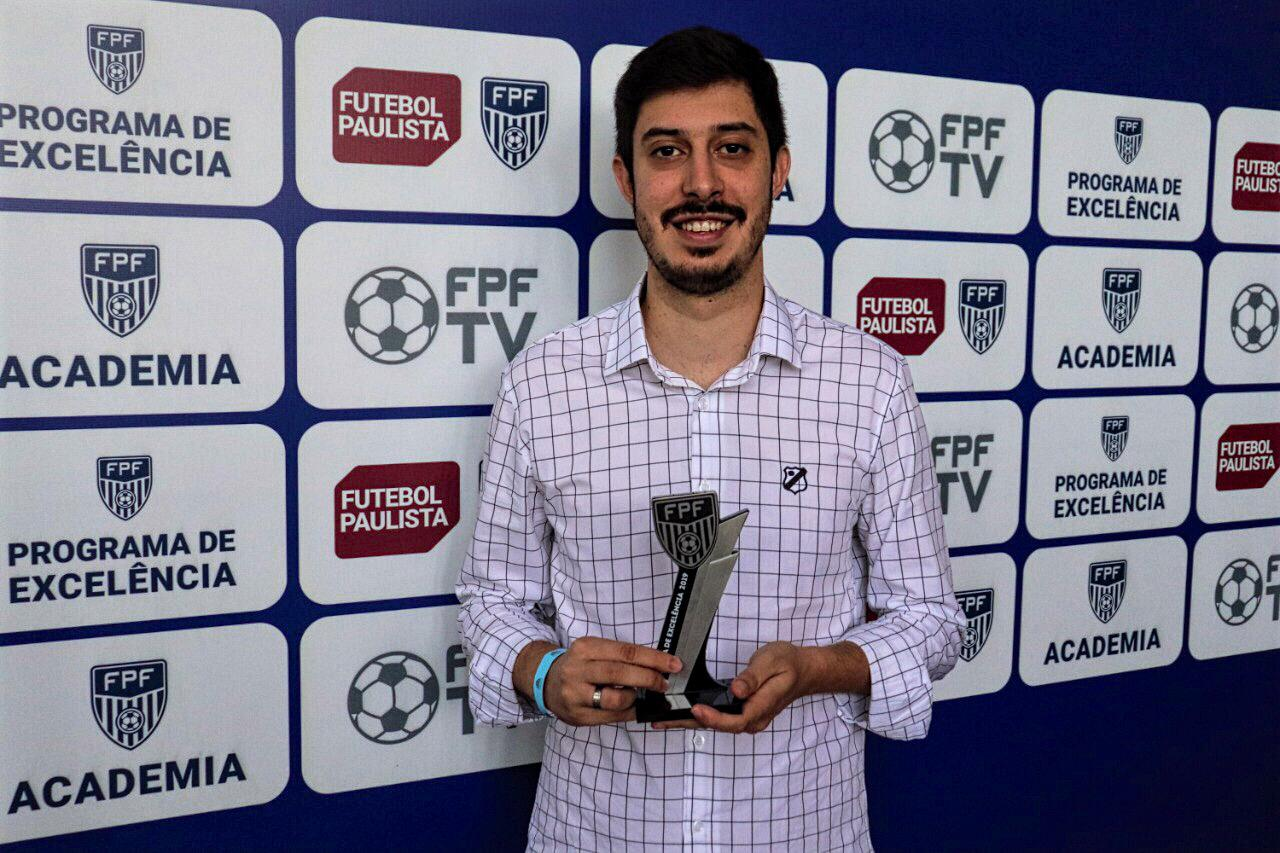
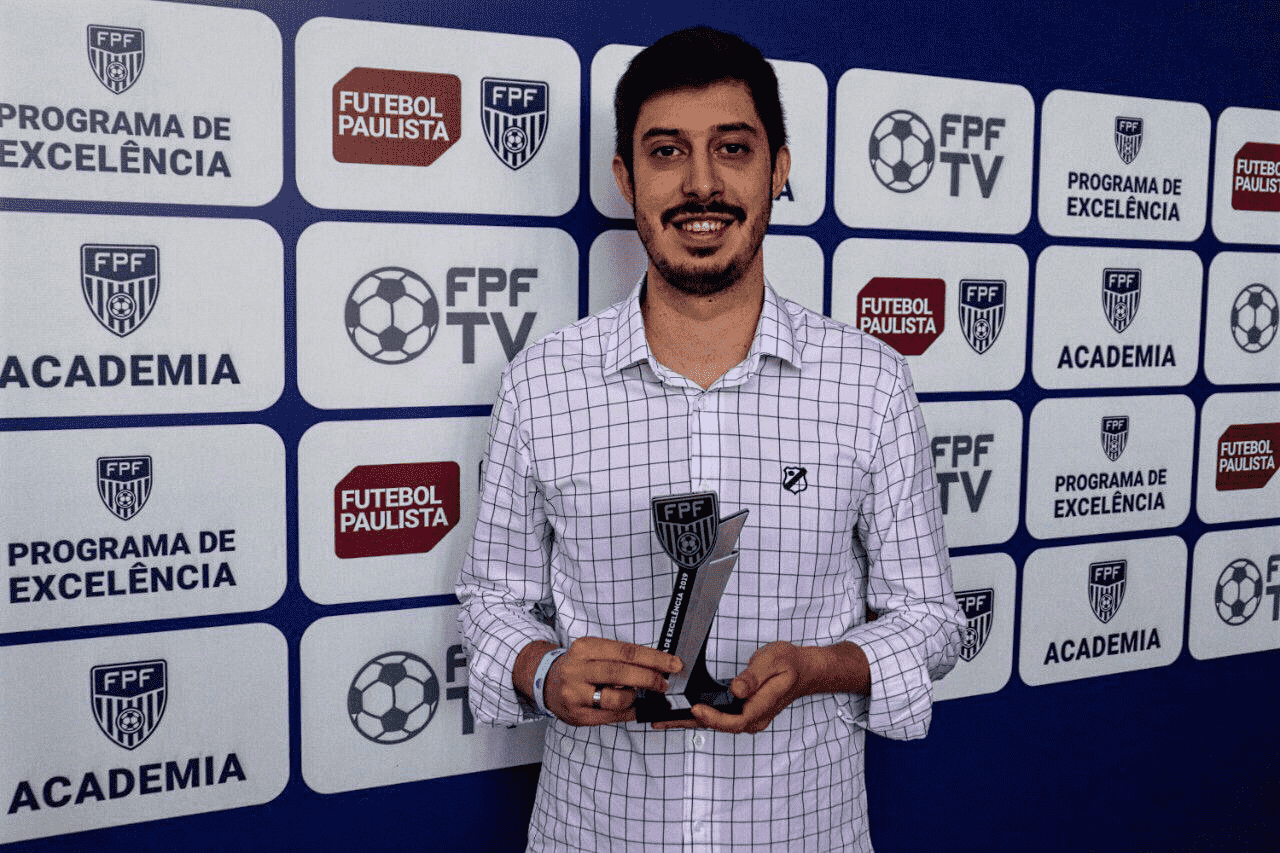
Created portifolio page and compressed images

diff --git a/src/app/home/Home/Home.vue b/src/app/home/Home/Home.vue
@@ -22,10 +22,16 @@
     <home-section image="lucas-image.jpg" flip>
       <vue-headline level="2">Lucas Baldin</vue-headline>
       <br />
+      <vue-headline level="3">Graduação</vue-headline>
+      <p>
+        Graduado em Ciências da Computação pela UNESP - Rio Claro, Diretor executivo da empresa júnior Info Jr durante 3
+        anos e formado pela ETEC Deputado Salim Sedeh em Informática.
+      </p>
+      <br />
       <vue-headline level="3">Experiência</vue-headline>
       <p>
-        Graduado em Ciências da Computação pela UNESP, Diretor executivo da empresa júnior Info Jr durante 3 anos e
-        atualmente Engenheiro de Software na Ci&t
+        Trabalhando a 3 anos na <a href="https://br.ciandt.com/" target="_blank" rel="noopener">Ci&T</a> em Campinas,
+        atualmente como Engenheiro de Software voltado para qualidade.
       </p>
       <br />
       <vue-headline level="3">Você me encontra em:</vue-headline>
@@ -50,8 +56,7 @@ export default {
     meta: [
       {
         name: 'description',
-        content:
-          'vuesion - The most complete boilerplate for production-ready PWAs. With focus on performance, development speed, and best practices',
+        content: 'lup3 - Marketing and Tecnology',
       },
       {
         name: 'robots',
@@ -62,36 +67,32 @@ export default {
         content: 'vue.js, vuex, vuex-persist, seo, server-side-rendering, isomorphic, progressive-web-app',
       },
 
-      { name: 'og:url', content: 'https://vuesion.herokuapp.com/' },
-      { name: 'og:site_name', content: 'vuesion' },
+      { name: 'og:url', content: 'https://lup3.herokuapp.com/' },
+      { name: 'og:site_name', content: 'lup3' },
       { name: 'og:type', content: 'website' },
       { name: 'og:locale', content: 'en' },
       {
         name: 'og:title',
-        content:
-          'vuesion - The most complete boilerplate for production-ready PWAs. With focus on performance, development speed, and best practices',
+        content: 'lup3 - Marketing and Tecnology',
       },
       {
         name: 'og:description',
-        content:
-          'vuesion - The most complete boilerplate for production-ready PWAs. With focus on performance, development speed, and best practices',
+        content: 'lup3 - Marketing and Tecnology',
       },
-      { name: 'og:image:url', content: 'https://vuesion.herokuapp.com/logo.png' },
+      { name: 'og:image:url', content: 'https://lup3.herokuapp.com/logo.png' },
 
       { name: 'twitter:card', content: 'summary' },
       { name: 'twitter:site', content: '@vuesion1' },
       { name: 'twitter:creator', content: '@vuesion1' },
       {
         name: 'twitter:title',
-        content:
-          'vuesion - The most complete boilerplate for production-ready PWAs. With focus on performance, development speed, and best practices',
+        content: 'lup3 - Marketing and Tecnology',
       },
-      { name: 'twitter:url', content: 'https://vuesion.herokuapp.com/' },
-      { name: 'twitter:image', content: 'https://vuesion.herokuapp.com/logo.png' },
+      { name: 'twitter:url', content: 'https://lup3.herokuapp.com/' },
+      { name: 'twitter:image', content: 'https://lup3.herokuapp.com/logo.png' },
       {
         name: 'twitter:description',
-        content:
-          'vuesion - The most complete boilerplate for production-ready PWAs. With focus on performance, development speed, and best practices',
+        content: 'lup3 - Marketing and Tecnology',
       },
     ],
   },

diff --git a/src/app/portifolio/Portifolio/Portifolio.vue b/src/app/portifolio/Portifolio/Portifolio.vue
@@ -1,0 +1,79 @@
+<template>
+  <div :class="$style.portifolio">
+    <vue-grid>
+      <vue-breadcrumb :items="breadCrumbItems"></vue-breadcrumb>
+
+      <vue-grid-row>
+        <vue-grid-item fill>
+          <vue-headline level="1">Portifolio</vue-headline>
+        </vue-grid-item>
+      </vue-grid-row>
+    </vue-grid>
+  </div>
+</template>
+
+<script lang="ts">
+import { registerModule } from '@/app/store';
+import { IPreLoad } from '@/server/isomorphic';
+import VueGrid from '@/app/shared/components/VueGrid/VueGrid.vue';
+import VueBreadcrumb from '@components/VueBreadcrumb/VueBreadcrumb.vue';
+import VueGridRow from '@/app/shared/components/VueGridRow/VueGridRow.vue';
+import VueGridItem from '@/app/shared/components/VueGridItem/VueGridItem.vue';
+import VueButton from '@/app/shared/components/VueButton/VueButton.vue';
+import VueHeadline from '@/app/shared/components/VueHeadline/VueHeadline.vue';
+
+import { PortifolioModule } from '../module';
+
+export default {
+  metaInfo: {
+    title: 'Portifolio',
+  },
+  components: {
+    VueGrid,
+    VueBreadcrumb,
+    VueGridRow,
+    VueGridItem,
+    VueButton,
+    VueHeadline,
+  },
+  data: (): any => ({}),
+  methods: {},
+  computed: {
+    breadCrumbItems() {
+      return [
+        { label: this.$t('Home' /* Home */), href: '/' },
+        { label: this.$t('Portifolio' /* Portifolio */), href: '/portifolio' },
+      ];
+    },
+  },
+  beforeCreate() {
+    registerModule('portifolio', PortifolioModule);
+  },
+  prefetch: (options: IPreLoad) => {
+    registerModule('portifolio', PortifolioModule);
+
+    /**
+     * This is the function where you can load all the data that is needed
+     * to render the page on the server and client side
+     *
+     * This function always returns a promise that means, if you want to
+     * call a vuex action you have to return it, here is an example
+     *
+     * return options.store.dispatch('fetchPortifolio', '1');
+     *
+     * If you need to fetch data from multiple source your can also return
+     * a Promise chain or a Promise.all()
+     */
+    return Promise.resolve();
+  },
+};
+</script>
+
+<style lang="scss" module>
+@import '~@/app/shared/design-system';
+
+.portifolio {
+  margin-top: $nav-bar-height;
+  min-height: 500px;
+}
+</style>

diff --git a/src/app/portifolio/Portifolio/Portifolio.spec.ts b/src/app/portifolio/Portifolio/Portifolio.spec.ts
@@ -1,0 +1,35 @@
+import { createLocalVue, mount } from '@vue/test-utils';
+import Vuex, { Store } from 'vuex';
+import { i18n } from '@/app/shared/plugins/i18n/i18n';
+import Portifolio from './Portifolio.vue';
+import { IPortifolioState } from '../state';
+import { PortifolioModule } from '../module';
+
+const localVue = createLocalVue();
+
+localVue.use(Vuex);
+
+describe('Portifolio.vue', () => {
+  let store: Store<IPortifolioState>;
+
+  beforeEach(() => {
+    store = new Vuex.Store({
+      modules: {
+        portifolio: PortifolioModule,
+      },
+    } as any);
+  });
+
+  test('renders component', () => {
+    const wrapper = mount<any>(Portifolio, {
+      store,
+      localVue,
+      i18n,
+      stubs: ['router-link'],
+    });
+
+    Portifolio.prefetch({});
+
+    expect(wrapper.find('h1').text()).toBe('Portifolio');
+  });
+});

diff --git a/src/app/router.ts b/src/app/router.ts
@@ -7,6 +7,7 @@ import { CounterRoutes } from './example/counter/routes';
 import { FormRoutes } from './example/form/routes';
 import { DashboardRoutes } from './example/dashboard/routes';
 import { store } from '@/app/store';
+import { PortifolioRoutes } from './portifolio/routes';
 
 Vue.use(VueRouter);
 Vue.use(Meta);
@@ -14,7 +15,7 @@ Vue.use(Meta);
 export const router: VueRouter = new VueRouter({
   mode: 'history',
   base: __dirname,
-  routes: [...AppRoutes, ...HomeRoutes, ...CounterRoutes, ...FormRoutes, ...DashboardRoutes],
+  routes: [...AppRoutes, ...HomeRoutes, ...CounterRoutes, ...FormRoutes, ...DashboardRoutes, ...PortifolioRoutes],
   scrollBehavior(to: Route, from: Route, savedPosition: { x: number; y: number }) {
     if (to.hash) {
       return { selector: to.hash };

diff --git a/src/app/state.ts b/src/app/state.ts
@@ -1,6 +1,7 @@
 import { AppDefaultState, IAppState } from './app/state';
 import { AuthDefaultState, IAuthState } from './shared/modules/auth/state';
 import { ICounterState } from './example/counter/state';
+import { IPortifolioState } from './portifolio/state';
 
 export interface IState {
   [key: string]: any;
@@ -8,6 +9,7 @@ export interface IState {
   app?: IAppState;
   auth?: IAuthState;
   counter?: ICounterState;
+  portifolio?: IPortifolioState;
 }
 
 export const DefaultState: IState = {

diff --git a/src/app/home/components/Stage/Stage.vue b/src/app/home/components/Stage/Stage.vue
@@ -8,16 +8,11 @@
           <img src="logo-lup3.png" alt="logo website" />
           <vue-headline level="1">Lup3 Marketing and Tecnology</vue-headline>
           <div :class="$style.subTitle">
-            {{
-              $t(
-                'App.core.description'
-              )
-            }}
+            {{ $t('App.core.description') }}
           </div>
         </vue-grid-item>
       </vue-grid-row>
     </vue-grid>
-    </br>
   </div>
 </template>
 

diff --git a/src/app/shared/components/icons/VueIconVuesion/VueIconVuesion.vue b/src/app/shared/components/icons/VueIconVuesion/VueIconVuesion.vue
@@ -1,5 +1,5 @@
 <template>
-  <i title="vuesion" aria-label="vuesion logo">
+  <i title="lup3" aria-label="lup3 logo">
     <svg viewBox="0 0 512 512" xmlns="http://www.w3.org/2000/svg">
       <g fill="#000" fill-rule="nonzero">
         <path
@@ -12,7 +12,7 @@
 
 <script lang="ts">
 export default {
-  name: 'VueIconVuesion',
+  name: 'VueIconLup3',
 };
 </script>
 

diff --git a/.vuesion/storybook/theme.js b/.vuesion/storybook/theme.js
@@ -3,7 +3,7 @@ import theme from './_theme.scss';
 
 export default create({
   ...theme,
-  brandTitle: 'vuesion Storybook',
-  brandUrl: 'https://vuesion.herokuapp.com',
-  brandImage: 'https://vuesion.herokuapp.com/logo.png',
+  brandTitle: 'lup3 Storybook',
+  brandUrl: 'https://lup3.herokuapp.com',
+  brandImage: 'https://lup3.herokuapp.com/logo.png',
 });

diff --git a/src/app/portifolio/state.ts b/src/app/portifolio/state.ts
@@ -1,0 +1,15 @@
+export interface IPortifolioState {
+  /**
+   * put your state attributes here, for example:
+   * myAttribute: any;
+   */
+}
+
+export const PortifolioDefaultState = (): IPortifolioState => {
+  return {
+    /**
+     * put your default value here, for example:
+     * myAttribute: null,
+     */
+  };
+};

diff --git a/src/app/app/App/App.vue b/src/app/app/App/App.vue
@@ -40,6 +40,11 @@
           Home
         </vue-sidebar-group-item>
 
+        <vue-sidebar-group-item to="/portifolio">
+          <vue-icon />
+          Portifolio
+        </vue-sidebar-group-item>
+
         <!-- <vue-sidebar-group-item :to="{ name: 'counter' }">
           <vue-icon-hashtag />
           VueX Example

diff --git a/src/app/portifolio/routes.ts b/src/app/portifolio/routes.ts
@@ -1,0 +1,10 @@
+import { RouteConfig } from 'vue-router/types/router';
+
+export const PortifolioRoutes: RouteConfig[] = [
+  {
+    path: '/portifolio',
+    name: 'portifolio',
+    component: () =>
+      import(/* webpackChunkName: "portifolio" */ './Portifolio/Portifolio.vue').then((m: any) => m.default),
+  },
+];

diff --git a/src/app/example/form/Form/Form.vue b/src/app/example/form/Form/Form.vue
@@ -23,7 +23,7 @@ import VueBreadcrumb from '@components/VueBreadcrumb/VueBreadcrumb.vue';
 
 export default {
   metaInfo: {
-    title: 'vuesion - Form Example',
+    title: 'lup3 - Form Example',
   },
   components: { VueBreadcrumb, VueHeadline, FormExample, VueGridItem, VueGridRow, VueGrid },
   computed: {},
